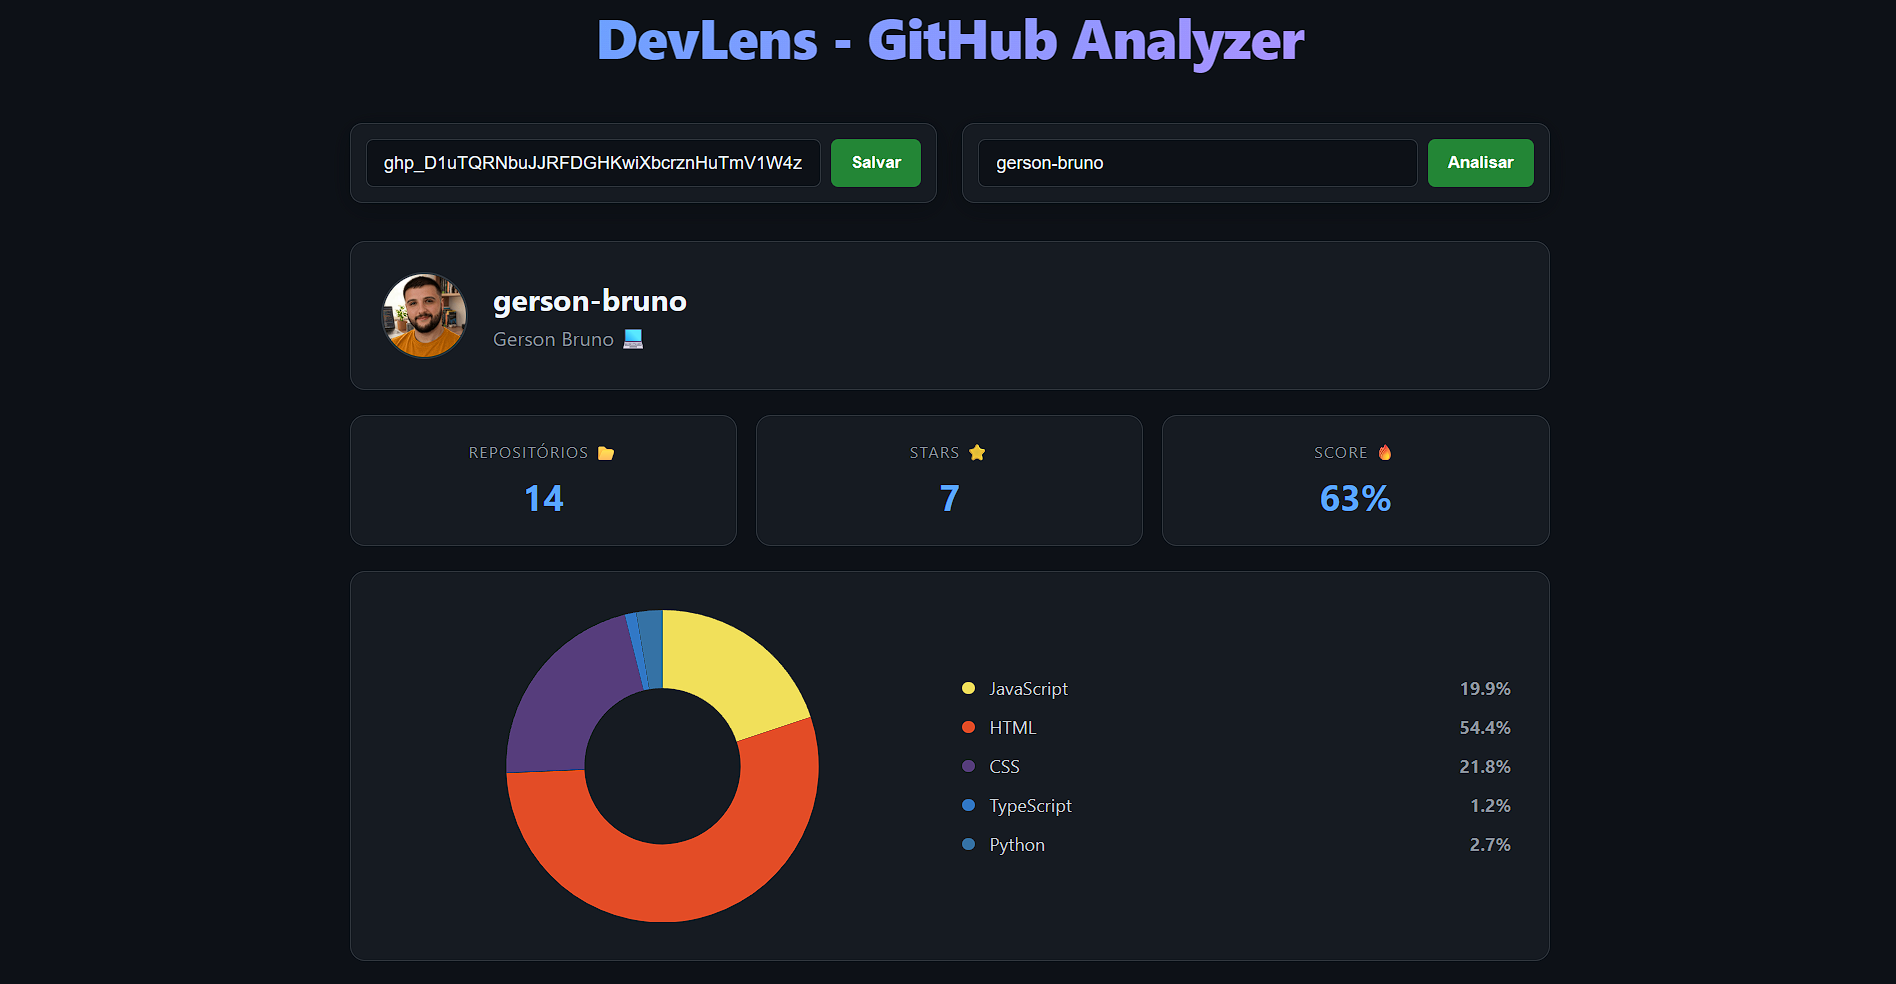
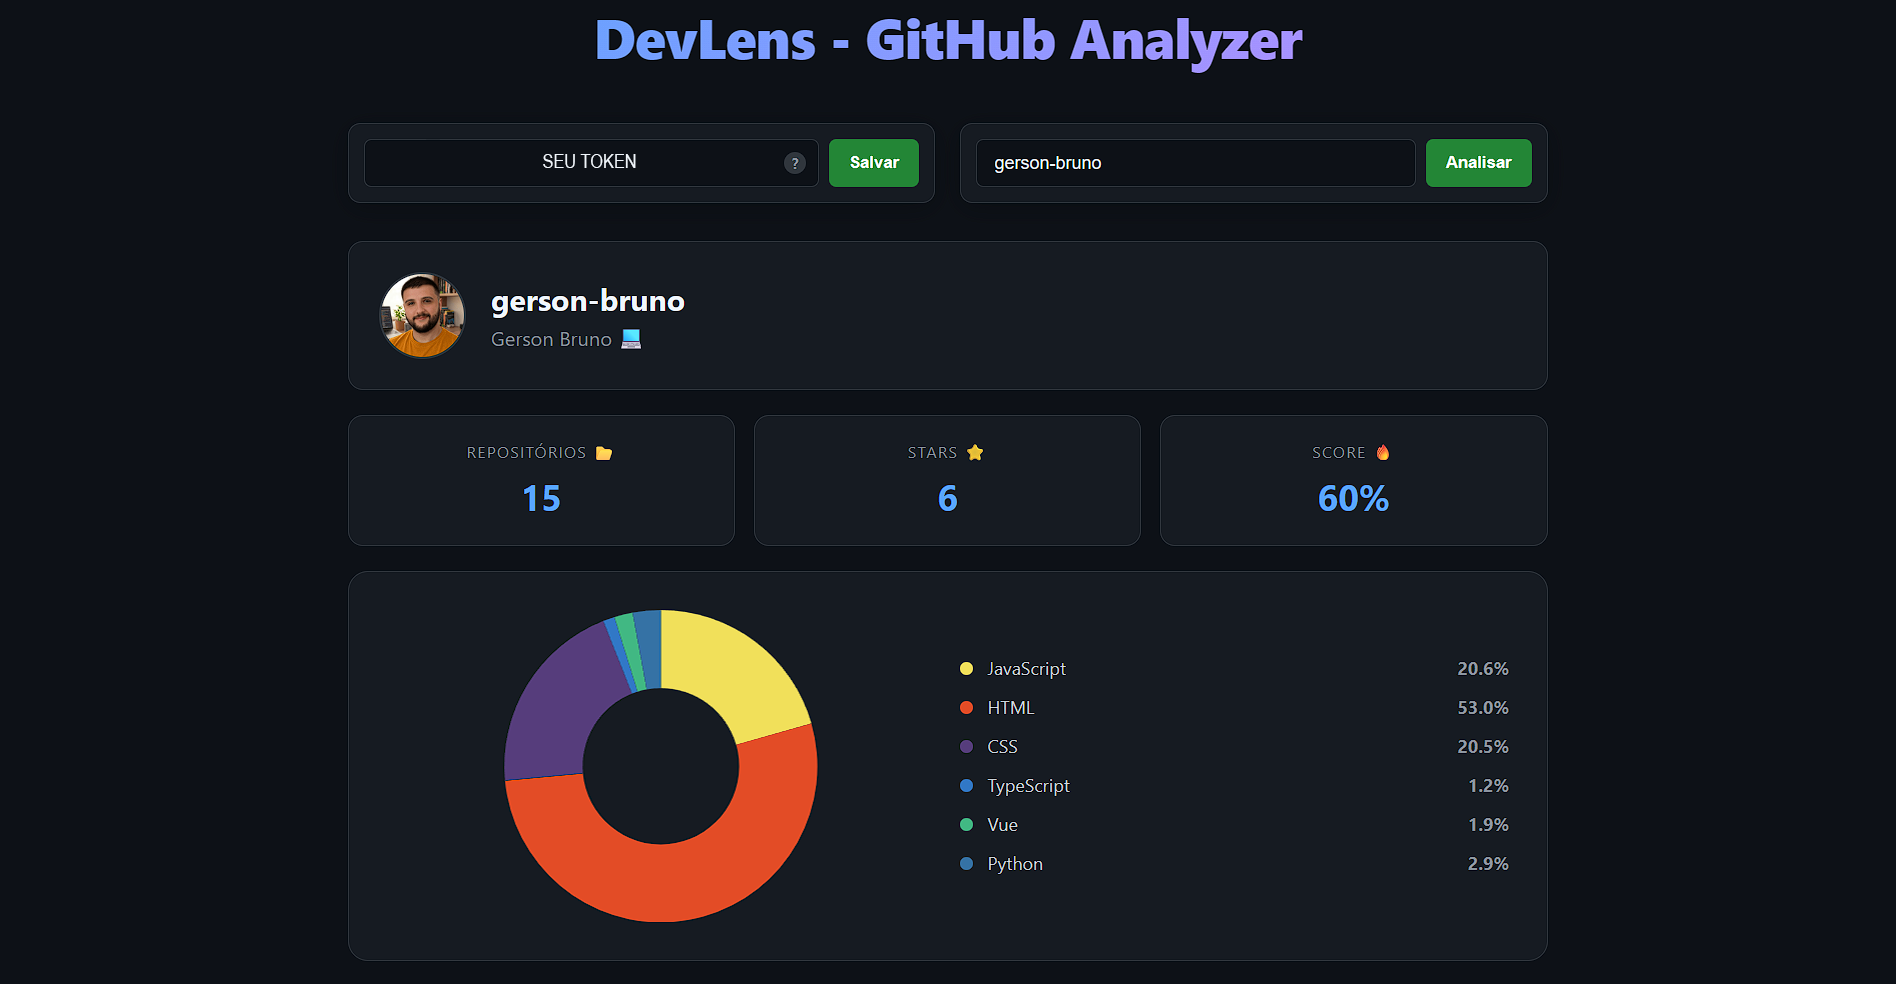
update readme

diff --git a/src/components/TokenInput.vue b/src/components/TokenInput.vue
@@ -1,6 +1,12 @@
 <template>
   <div class="box">
-    <input v-model="localToken" placeholder="Token GitHub (opcional)" />
+    <div class="input-wrapper">
+      <input v-model="localToken" placeholder="Token GitHub (opcional)" />
+      
+      <div class="help-icon" data-tooltip="Para evitar o limite de busca da API. Crie um TOKEN em: Settings > Developer Settings > Personal access tokens. (PS: Para utilizar essa função é necessário ser membro do programa de desenvolvedores do GitHub.)">
+        ?
+      </div>
+    </div>
     <button @click="save">Salvar</button>
   </div>
 </template>
@@ -23,6 +29,73 @@ const save = () => {
   const t = localToken.value.trim();
   localStorage.setItem("gh_token", t);
   setToken(t);
-  // Removi o alert para uma UX mais fluida, mas você pode manter se preferir
 };
 </script>
+
+<style scoped>
+.input-wrapper {
+  flex: 1;
+  display: flex;
+  align-items: center;
+  position: relative;
+}
+
+input {
+  width: 100%;
+  background: #0d1117;
+  border: 1px solid #30363d;
+  padding: 10px 35px 10px 14px; /* Espaço na direita para o ícone */
+  border-radius: 6px;
+  color: #f0f6fc;
+  font-size: 0.9rem;
+}
+
+.help-icon {
+  position: absolute;
+  right: 10px;
+  width: 18px;
+  height: 18px;
+  background: #30363d;
+  color: #8b949e;
+  border-radius: 50%;
+  display: flex;
+  align-items: center;
+  justify-content: center;
+  font-size: 12px;
+  font-weight: bold;
+  cursor: help;
+  transition: 0.2s;
+}
+
+.help-icon:hover {
+  background: #58a6ff;
+  color: #fff;
+}
+
+/* Estilo do Tooltip (Balão de ajuda) */
+.help-icon::after {
+  content: attr(data-tooltip);
+  position: absolute;
+  bottom: 130%;
+  right: 0;
+  width: 200px;
+  padding: 10px;
+  background: #161b22;
+  border: 1px solid #30363d;
+  color: #c9d1d9;
+  font-size: 11px;
+  border-radius: 6px;
+  visibility: hidden;
+  opacity: 0;
+  transition: opacity 0.3s;
+  box-shadow: 0 5px 15px rgba(0,0,0,0.4);
+  z-index: 10;
+  line-height: 1.4;
+  pointer-events: none;
+}
+
+.help-icon:hover::after {
+  visibility: visible;
+  opacity: 1;
+}
+</style>

diff --git a/index.html b/index.html
@@ -2,7 +2,7 @@
 <html lang="en">
   <head>
     <meta charset="UTF-8" />
-    <link rel="icon" type="image/svg+xml" href="/favicon.svg" />
+    <link rel="shortcut icon" href="public/favicon.ico" type="image/x-icon">
     <meta name="viewport" content="width=device-width, initial-scale=1.0" />
     <title>DevLens</title>
   </head>

diff --git a/README.md b/README.md
@@ -1,5 +1,79 @@
-# Vue 3 + Vite
+# 🔍 DevLens - GitHub Insights
 
-This template should help get you started developing with Vue 3 in Vite. The template uses Vue 3 `<script setup>` SFCs, check out the [script setup docs](https://v3.vuejs.org/api/sfc-script-setup.html#sfc-script-setup) to learn more.
+O **DevLens** é uma ferramenta de análise de perfil do GitHub que transforma dados brutos da API em visualizações inteligentes. O projeto foca em fornecer uma visão clara das tecnologias dominantes de um desenvolvedor, seu engajamento (stars) e uma pontuação de performance baseada em sua atividade.
 
-Learn more about IDE Support for Vue in the [Vue Docs Scaling up Guide](https://vuejs.org/guide/scaling-up/tooling.html#ide-support).
+---
+
+## 🚀 Demonstração
+Acesse o projeto online: [**Clique aqui para visualizar o DevLens**](https://gerson-bruno.github.io/devlens/)
+
+---
+
+## 📸 Preview
+![Preview do Projeto](./public/preview.png)
+
+---
+
+## ✨ Funcionalidades
+
+* **Dashboard de Linguagens:** Gráfico interativo (Doughnut) mostrando a distribuição percentual de tecnologias.
+* **Cores Dinâmicas:** Sistema de cores que identifica linguagens populares ou gera cores únicas via algoritmos de Hashing.
+* **Integração com API GitHub:** Consumo de dados de usuários, repositórios e estatísticas de linguagens em tempo real.
+* **Suporte a Token:** Campo dedicado para inserção de Personal Access Token, evitando limites de taxa (Rate Limit) da API.
+* **Design Responsivo:** Interface otimizada para Desktop e Mobile com tema Dark (estilo GitHub).
+
+---
+
+## 🛠 Tecnologias Utilizadas
+
+* **Vue.js 3:** Framework progressivo para a construção da interface.
+* **Vite:** Build tool ultra-rápida para o desenvolvimento.
+* **Chart.js:** Biblioteca de manipulação de dados para geração de gráficos.
+* **Axios:** Para requisições HTTP eficientes.
+* **CSS3 (Flexbox/Grid):** Layout moderno e responsivo sem dependências externas de UI.
+
+---
+
+## 📦 Como rodar o projeto localmente
+
+1. **Clone o repositório:**
+   ```bash
+   git clone [https://github.com/gerson-bruno/devlens.git](https://github.com/gerson-bruno/devlens.git)
+2. **Instale as dependências:**
+   ```bash
+   npm install
+   ```
+
+3. **Inicie o servidor local:**
+   ```bash
+   npm run dev
+   ```
+## 🔑 Como criar seu GitHub Personal Access Token
+Para usar o DevLens sem restrições de limite de busca, siga estes passos:
+
+Acesse as Configurações: No seu GitHub, clique na sua foto de perfil no canto superior direito e vá em Settings.
+
+Developer Settings: No menu lateral esquerdo, role até o final e clique em Developer settings.
+
+Tokens (classic): Clique em Personal access tokens > Tokens (classic).
+
+Gerar Novo Token: Clique no botão Generate new token > Generate new token (classic).
+
+**Configuração:**
+
+Note: Dê um nome (ex: "DevLens App").
+
+Expiration: Escolha o prazo que preferir (ex: 30 ou 90 dias).
+
+Scopes: Para o DevLens, você não precisa marcar nenhuma caixa (o acesso público é suficiente para ler repositórios abertos).
+
+Gerar: Role até o final e clique em Generate token.
+
+Copiar: Copie o código gerado imediatamente (ele começa com ghp_). Atenção: Você não conseguirá vê-lo novamente após fechar a página.
+
+
+## 👨💻 Sobre o Desenvolvedor
+Projeto desenvolvido por Gerson. Estudante de Análise e Desenvolvimento de Sistemas na UNINTER e Residente em TIC-12 pela UFC. Atualmente em transição de carreira para Front-End Developer, unindo a precisão de 8 anos como fisioterapeuta com a paixão pela tecnologia e código limpo.
+
+## 📝 Licença
+Este projeto está sob a licença MIT.
